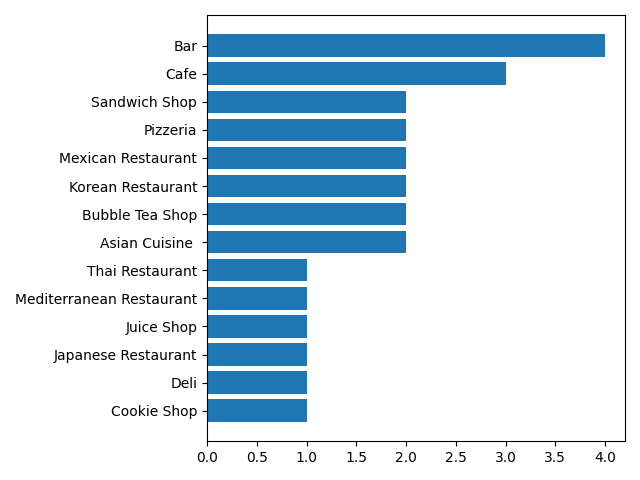
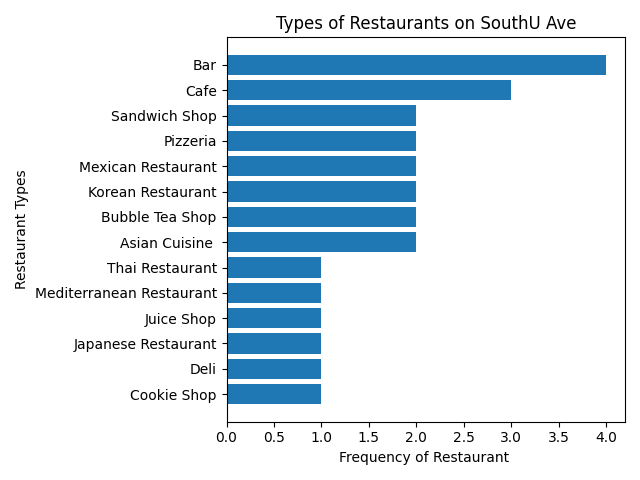
Added Picture

diff --git a/HW8.py b/HW8.py
@@ -59,6 +59,9 @@ def plot_rest_categories(db):
 
     plt.barh(ticks,freq)
     plt.yticks(ticks,keys)
+    plt.xlabel("Frequency of Restaurant ")
+    plt.ylabel("Restaurant Types")
+    plt.title("Types of Restaurants on SouthU Ave")
     plt.tight_layout()
     plt.savefig("Restaurant Type Freq")
     
